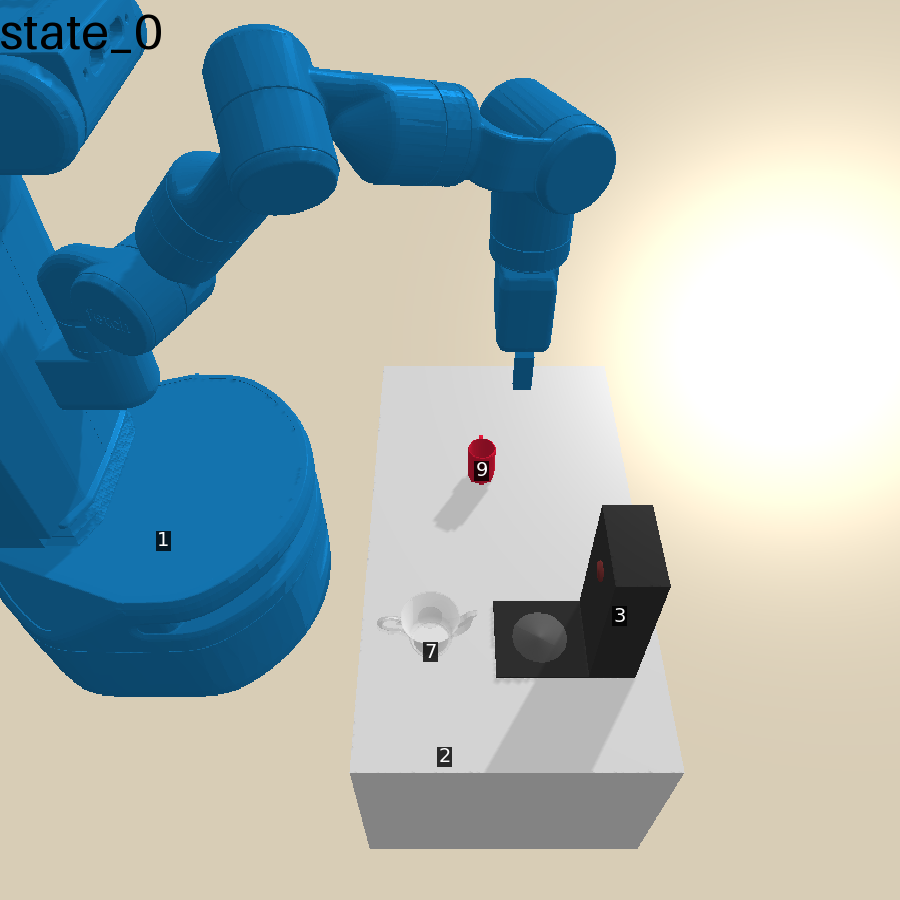
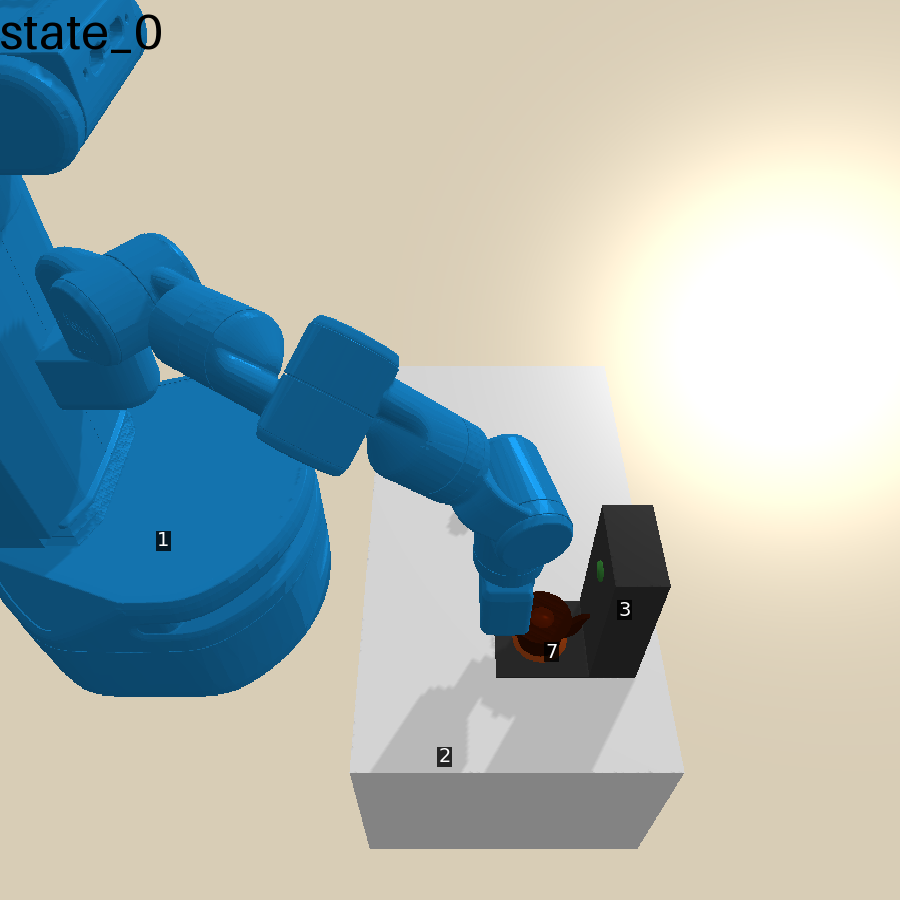
fix coffee pick policy

Changed region(s): [[0.0311, 0.0, 0.6844, 0.8711], [0.6844, 0.6533, 0.7156, 0.6844], [0.6533, 0.6222, 0.6844, 0.6533]]

diff --git a/predicators/approaches/vlm_online_invention_approach.py b/predicators/approaches/vlm_online_invention_approach.py
@@ -226,8 +226,9 @@ class VlmInventionApproach(NSRTLearningApproach):
         manual_prompt = True
         regenerate_response = False
         # solve_rate, prev_solve_rate = 0.0, np.inf  # init to inf
-        best_solve_rate, best_ite, clf_acc = 0.0, 0.0, 0.0
+        best_solve_rate, best_ite, clf_acc = -np.inf, 0.0, 0.0
         clf_acc_at_best_solve_rate = 0.0
+        num_failed_plans_at_best_solve_rate = np.inf
         best_nsrt, best_preds = deepcopy(self._nsrts), set()
         self._learned_predicates = set()
         # Keep a copy in case it doesn't learn it from data.
@@ -314,7 +315,7 @@ class VlmInventionApproach(NSRTLearningApproach):
                     # Use the results to prompt the llm
                     prompt = self._create_prompt(env, ite, 10, 2, 2, 
                                             categories_to_show=['tp', 'fp'])
-                    breakpoint()
+                    # breakpoint()
                     response_file =\
                         f'./prompts/invent_{self.env_name}_{ite}.response'
                     # f'./prompts/invent_{self.env_name}_{ite}.response'
@@ -415,13 +416,13 @@ class VlmInventionApproach(NSRTLearningApproach):
                     "seconds")
             # [End moving out]
 
-            breakpoint()
+            # breakpoint()
             # Finally, learn NSRTs via superclass, using all the kept predicates.
             self._learn_nsrts(all_trajs,
                               online_learning_cycle=None,
                               annotations=None,
                               fail_optn_dict=self.fail_optn_dict)
-            breakpoint()
+            # breakpoint()
 
             # Add init_nsrts whose option isn't in the current nsrts to
             # Is this sufficient? Or should I add back all the operators?
@@ -460,34 +461,39 @@ class VlmInventionApproach(NSRTLearningApproach):
                 initial_ite=False,
                 print_cm=True)
             clf_acc = (tp + tn) / (tp + tn + fp + fn)
-            logging.info(f"\n===ite {ite} finished. "
+            logging.info(f"\n===ite {ite} finished.\n"
                          f"Solve rate {num_solved / num_tasks} "
-                         f"Prev solve rate {prev_solve_rate} "
+                         f"Prev solve rate {prev_solve_rate}\n"
                          f"Num skeletons failed {num_failed_plans} "
+                         f"Prev num skeletons failed {prev_num_failed_plans}\n"
                          f"Clf accuracy: {clf_acc:.2f}\n")
-            breakpoint()
+            # breakpoint()
 
             # Save the best model
-            if solve_rate > best_solve_rate:
+            if solve_rate > best_solve_rate or\
+               (solve_rate == best_solve_rate and\
+                num_failed_plans < num_failed_plans_at_best_solve_rate):
                 best_solve_rate = solve_rate
                 clf_acc_at_best_solve_rate = clf_acc
                 best_ite = ite
                 best_nsrt = self._nsrts
                 best_preds = self._learned_predicates
+                num_failed_plans_at_best_solve_rate = num_failed_plans
             prev_solve_rate = solve_rate
             prev_num_failed_plans = num_failed_plans
             self._previous_nsrts = deepcopy(self._nsrts)
-            if solve_rate == 2 and num_failed_plans == 1:
+            if solve_rate == 1 and num_failed_plans == 0:
                 break
             time.sleep(5)
 
         logging.info("Invention finished.")
         logging.info(
-            f"\nBest solve rate {best_solve_rate} first achieved at ite "
+            f"\nBest solve rate {best_solve_rate} and num_failed_plan"
+            f"{num_failed_plans_at_best_solve_rate} first achieved at ite "
             f"{best_ite}; clf accuracy {clf_acc_at_best_solve_rate}")
         logging.info(f"Predicates learned {best_preds}")
         logging.info(f"NSRTs learned {pformat(best_nsrt)}")
-        breakpoint()
+        # breakpoint()
         self._nsrts = best_nsrt
         self._learned_predicates = best_preds
         return

diff --git a/predicators/ground_truth_models/coffee/options.py b/predicators/ground_truth_models/coffee/options.py
@@ -266,10 +266,13 @@ class CoffeeGroundTruthOptionFactory(GroundTruthOptionFactory):
             # Distance in the z direction to a safe move distance.
             safe_z_sq_dist = (cls.env_cls.robot_init_z - z)**2
             xy_waypoint_sq_dist = (target_x - x)**2 + (waypoint_y - y)**2
+            dwrist = cls.env_cls.robot_init_wrist - state.get(robot, "wrist")
+            dtilt = cls.env_cls.robot_init_tilt - state.get(robot, "tilt")
             # If at the correct x and z position and behind in the y direction,
             # move directly toward the target.
             if target_y > y and xz_handle_sq_dist < cls.pick_policy_tol:
-                return cls._get_move_action(state, handle_pos, robot_pos)
+                return cls._get_move_action(state, handle_pos, robot_pos, dtilt, 
+                                            dwrist)
             # If close enough to the penultimate waypoint in the x/y plane,
             # move to the waypoint (in the z direction).
             if xy_waypoint_sq_dist < cls.pick_policy_tol:
